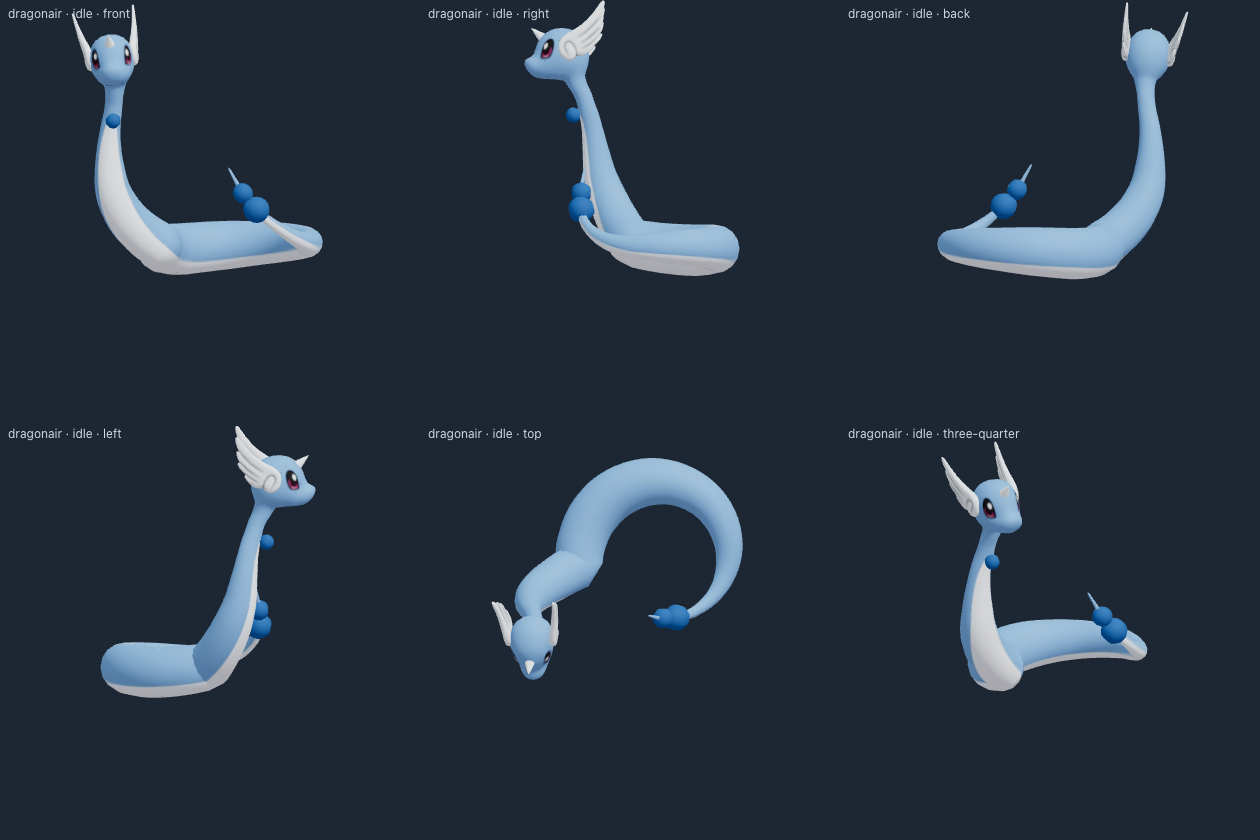
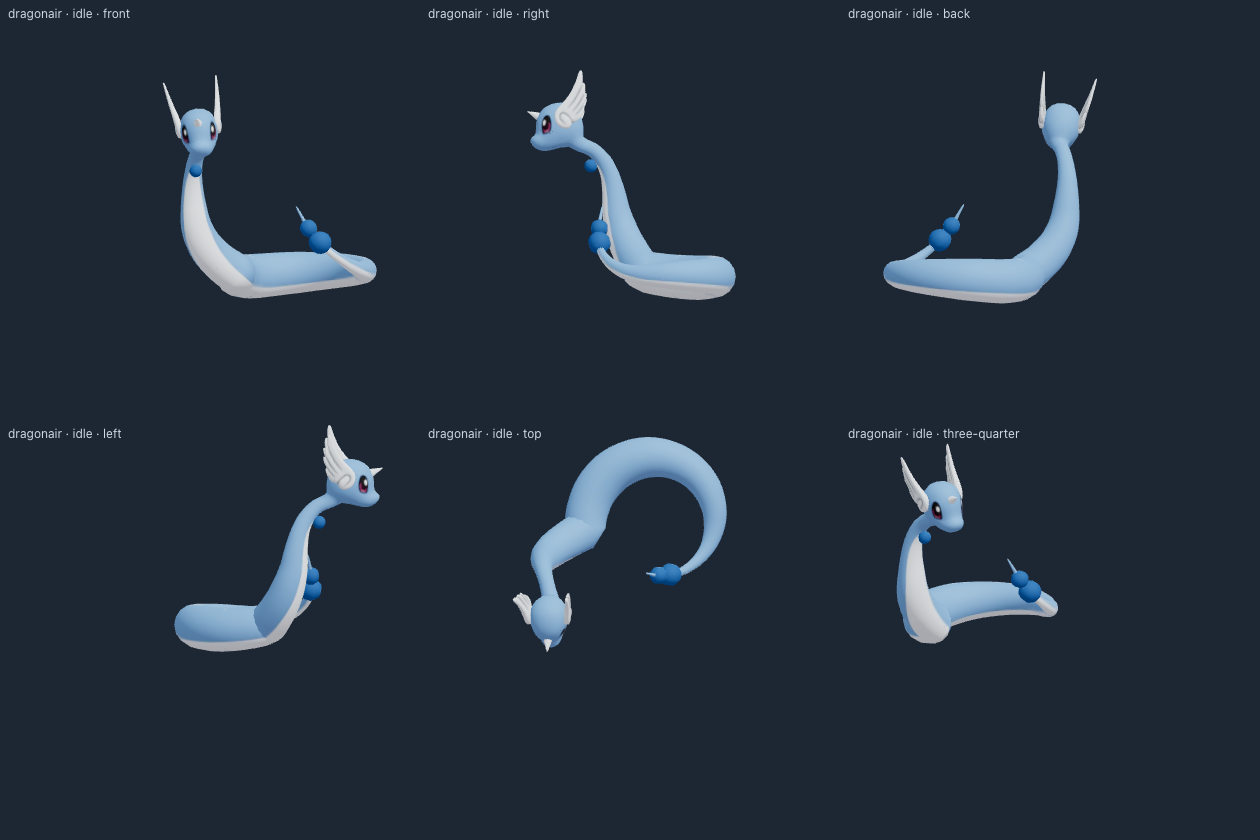
Turn Ekans' head forward and curve Dratini's and Dragonair's necks
Checked against the official artwork. Ekans' exported head looks up by ~40°,
and keeping its world orientation left it staring at the sky; Dratini's and
Dragonair's necks rose as straight vertical posts.
- Ekans: the neck hooks forward at the top of its rise, and the head nods to
  face forward and a little down, mouth open to the front.
- Dratini: the top of the neck leans forward instead of rising vertically.
- Dragonair: a swan's neck, rising from its loop and arching forward.
Head nods are in SERPENT_HEAD_NOD; the serpent test checks heads turn only by
that nod and that Ekans' jaw is ahead of its head rather than above it. Serpent
review sheets regenerated; the close-up review frames tall Pokémon fully.

diff --git a/src/game/pokemonAppendages.ts b/src/game/pokemonAppendages.ts
@@ -376,6 +376,11 @@ function refineSerpentSkin(scene: Object3D, chains: Object3D[][]) {
   return { chains: expanded, dispose: () => { for (const mesh of meshes) { mesh.geometry.dispose(); mesh.skeleton.dispose(); } } };
 }
 
+/** The exported serpent heads look up (Ekans' by about 40°); after the neck is posed they nod
+ * forward by this much (radians about the side axis), as in the artwork: Ekans' hooked head
+ * faces forward and a little down, Dragonair's tips down from its arched neck. */
+export const SERPENT_HEAD_NOD: Record<number, number> = { 23: 0.8, 147: 0.15, 148: 0.3 };
+
 /** Rest silhouettes fitted to the official Pokédex artwork (see pokemon-resting-review.md).
  * The lower spine is part of a snake's coil, not a vertical post above a curled tail.
  * Angles describe anatomical directions in the scene frame; joint lengths stay untouched. */
@@ -418,13 +423,15 @@ function poseSerpentRest(scene: Object3D, number: number) {
     bone.quaternion.copy(bone.parent.getWorldQuaternion(new Quaternion()).invert().multiply(to).multiply(from.invert()).multiply(bind.rotation));
   };
   // Lower body turns into the raised neck. Ekans uses a second, rising turn;
-  // Arbok keeps the hood's upper joints upright. Dratini remains an open J curve.
+  // Arbok keeps the hood's upper joints upright. Dratini remains an open J curve whose neck
+  // leans forward at the top; Dragonair's neck is a swan's, rising and then arching forward.
   const neck: Record<number, [number, number][]> = {
     23: [[0, 0.2], [1.05, 0.25], [2.1, 0.3], [3.15, 0.3], [4.2, 0.4], [5.25, 0.55], [6.0, 0.85], [6.25, 1.1]],
     24: [[0, 0.2], [0.65, 0.5], [0.8, 0.9], [0.6, 1.25]],
-    147: [[0, 0.5], [0, 1.0], [0, 1.35], [0, 1.5]],
-    148: [[-1.1, 0.5], [-1.0, 0.8], [-0.7, 1.1], [0, 1.4], [0.7, 1.35], [0.8, 1.2], [0.5, 1.25]],
+    147: [[0, 0.5], [0, 1.0], [0, 1.3], [0, 1.1]],
+    148: [[-1.1, 0.5], [-1.0, 0.8], [-0.7, 1.15], [0, 1.45], [0.4, 1.3], [0.4, 0.95], [0.3, 0.6]],
   };
+  const nod = SERPENT_HEAD_NOD;
   const lengthOf = (chain: Object3D[]) => chain.slice(1).reduce((sum, bone, i) => sum + bone.getWorldPosition(new Vector3()).distanceTo(chain[i].getWorldPosition(new Vector3())), 0);
   const spineLength = lengthOf(denseSpine), tailLength = lengthOf(denseTail);
   const makeUpperCoil = (radius: number) => {
@@ -436,7 +443,9 @@ function poseSerpentRest(scene: Object3D, number: number) {
       points.push(new Vector3(center - radius * Math.cos(angle), lift * (1 + j / 18 * 0.25), radius * Math.sin(angle)));
     }
     const end = points[points.length - 1];
-    points.push(end.clone().add(new Vector3(-radius * 0.2, spineLength * 0.09, radius * 0.4)), end.clone().add(new Vector3(-radius * 0.4, spineLength * 0.18, radius * 0.65)));
+    // The neck rises out of the upper turn, then hooks forward at the top (the artwork's "?").
+    points.push(end.clone().add(new Vector3(-radius * 0.2, spineLength * 0.09, radius * 0.4)), end.clone().add(new Vector3(-radius * 0.4, spineLength * 0.17, radius * 0.75)),
+      end.clone().add(new Vector3(-radius * 0.5, spineLength * 0.21, radius * 1.25)));
     return new CatmullRomCurve3(points, false, "centripetal");
   };
   // Fit the upper turn to the available body length, centered over the lower turn.
@@ -468,6 +477,7 @@ function poseSerpentRest(scene: Object3D, number: number) {
   // Face forward after the neck bends; avoid turning the head into the coil.
   scene.updateWorldMatrix(true, true);
   if (head?.parent && headWorld) head.quaternion.copy(head.parent.getWorldQuaternion(new Quaternion()).invert().multiply(headWorld));
+  if (head && nod[number]) head.quaternion.multiply(new Quaternion().setFromAxisAngle(localAxis(head, new Vector3(1, 0, 0), frame), nod[number]));
   scene.updateWorldMatrix(true, true);
   return refinement.dispose;
 }

diff --git a/src/game/pokemonWings.test.ts b/src/game/pokemonWings.test.ts
@@ -5,7 +5,7 @@ import type { Object3D } from "three";
 import { GLTFLoader } from "three/examples/jsm/loaders/GLTFLoader.js";
 import type { GLTF } from "three/examples/jsm/loaders/GLTFLoader.js";
 import { applyRestPose, createPokemonFallback, selectSpeciesClip } from "./pokemonAnimation";
-import { normalizePokemonBone, rigPokemonAppendages } from "./pokemonAppendages";
+import { normalizePokemonBone, rigPokemonAppendages, SERPENT_HEAD_NOD } from "./pokemonAppendages";
 import { POKEMON_MODELS } from "./pokemonModels";
 import { stageForDisplay } from "./pokemonMotionMetrics";
 import { pokemonDisplayHeight } from "./pokemonScale";
@@ -152,7 +152,15 @@ it("fits distinct serpent silhouettes, preserving lengths and forward-facing hea
       while (parent && parent !== lengths[i].parent) { length += parent.position.length(); parent = parent.parent; }
       expect(length).toBeCloseTo(lengths[i].length);
     });
-    expect(head!.getWorldQuaternion(headFacing.clone()).angleTo(headFacing)).toBeLessThan(0.001);
+    // The head only nods forward from its exported orientation (see SERPENT_HEAD_NOD).
+    expect(head!.getWorldQuaternion(headFacing.clone()).angleTo(headFacing)).toBeCloseTo(SERPENT_HEAD_NOD[number] ?? 0, 3);
+    if (number === 23) {
+      // Ekans faces forward, not up: its jaw is further ahead of its head than above it.
+      let jaw: Object3D | undefined;
+      scene.traverse(b => { if (!jaw && normalizePokemonBone(b.name) === "UpperJaw") jaw = b; });
+      const toJaw = jaw!.getWorldPosition(new Vector3()).sub(head!.getWorldPosition(new Vector3()));
+      expect(toJaw.z).toBeGreaterThan(toJaw.y);
+    }
     const positions = tails.map(b => b.getWorldPosition(new Vector3()));
     // Tips rise out of the base; a completely flat tail is not the reference pose.
     const ys = positions.map(p => p.y);

diff --git a/src/review/ModelReview.tsx b/src/review/ModelReview.tsx
@@ -39,7 +39,7 @@ function CloseUp({ species: name, motion, mood }: { species: string; motion: Pok
   const views = allViews ? SERPENT_VIEWS : VIEWS.map(view => ({ ...view, pitch: 0.12 }));
   const height = size * (allViews ? 2 : 1);
   return <div data-ready={ready} style={{ position: "relative", width: size * VIEWS.length, height, fontFamily: "system-ui, sans-serif" }}>
-    <Canvas orthographic dpr={1} frameloop="always" shadows style={{ width: size * VIEWS.length, height }} camera={{ position: [0, 0.75, 20], zoom: size / 2.5, near: 0.1, far: 100 }}>
+    <Canvas orthographic dpr={1} frameloop="always" shadows style={{ width: size * VIEWS.length, height }} camera={{ position: [0, 0.8, 20], zoom: size / 3, near: 0.1, far: 100 }}>
       <color attach="background" args={["#1d2733"]} />
       <PokemonLighting mood={mood} />
       {views.map(({ label, turn, pitch }, index) => <group key={label} position={[((index % 3) - 1) * 2.5, allViews ? (index < 3 ? 1.6 : -0.9) : 0.6, 0]}>

diff --git a/docs/pokemon-resting-review.md b/docs/pokemon-resting-review.md
@@ -21,6 +21,16 @@ Joint counts: Ekans 25 → 109, Arbok 26 → 102, Dratini 16 → 60, Dragonair 2
 
 Tentacool, Tentacruel, Omanyte and Omastar have explicit feeler mappings with a resting curl and delays per segment and branch. These mappings are shared by idle, travel, attack, hit and move clips. Tangela retains its generated part rig.
 
+### Necks and heads
+
+The first fitted poses still read oddly above the body. Ekans' exported head looks up by about 40°, so keeping its world orientation left it staring at the sky. Dratini's and Dragonair's necks rose as straight vertical posts. Compared again with the official artwork:
+
+- **Ekans**: the neck rises out of the upper turn and hooks forward at the top, like a question mark. The head nods 0.8 rad to face forward and a little down, mouth open to the front.
+- **Dratini**: still an open J, but the top of the neck leans forward (elevation 1.1 rad instead of vertical) and the head nods 0.15 rad.
+- **Dragonair**: a swan's neck that rises from the loop and arches forward over its last segments. The head nods 0.3 rad.
+
+Head nods live in `SERPENT_HEAD_NOD`. The serpent test checks that heads turn only by that nod, and that Ekans' jaw sits further ahead of its head than above it.
+
 ## Additional reference views
 
 - [Ekans game sprites](https://pokemondb.net/sprites/ekans), [Arbok](https://pokemondb.net/sprites/arbok), [Dratini](https://pokemondb.net/sprites/dratini), [Dragonair](https://pokemondb.net/sprites/dragonair): inspected game-derived front/back silhouettes in addition to official artwork.
